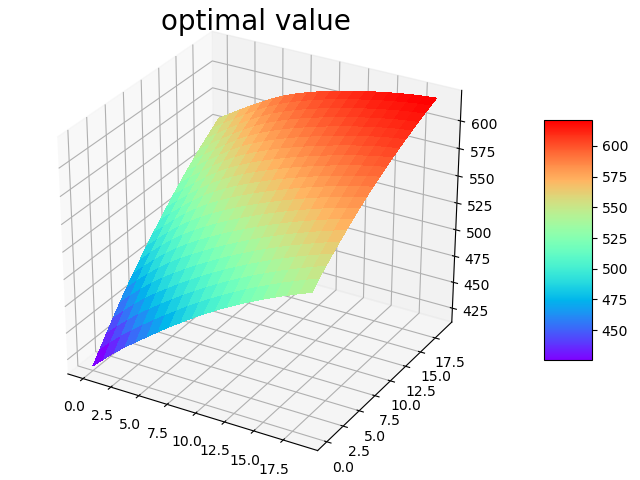
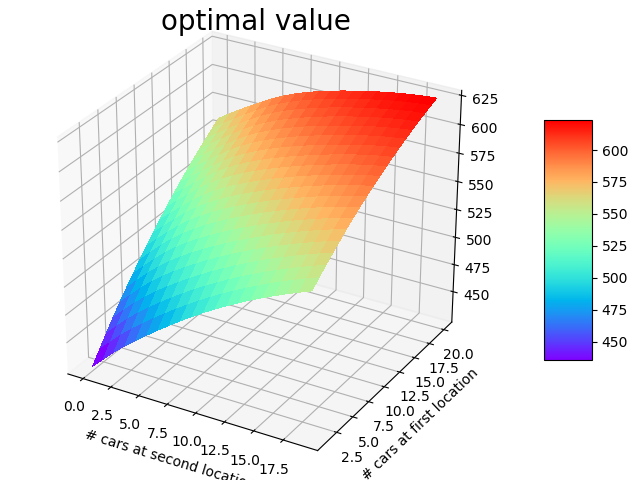
about car rental, not finished

diff --git a/resources/car_rental.py b/resources/car_rental.py
@@ -194,14 +194,16 @@ def plot_3d_value(value):
 
     # 定义三维数据
     xx = np.arange(0, MAX_CARS, 1)
-    yy = np.arange(0, MAX_CARS, 1)
+    yy = np.arange(MAX_CARS, 0, -1)
     X, Y = np.meshgrid(xx, yy)
     # python在这里表现的很智能！
     Z = value[X, Y]
 
     surf = ax3.plot_surface(X, Y, Z, cmap='rainbow', linewidth=0, antialiased=False)
     fig_3d.colorbar(surf, shrink=0.5, aspect=5)
-    ax3.set_title("optimal value", fontsize=20)
+    ax3.set_title('optimal value', fontsize=20)
+    ax3.set_xlabel('# cars at second location', fontsize=10)
+    ax3.set_ylabel('# cars at first location', fontsize=10)
     plt.savefig('../images/rl/dp/figure_4_2_3d_value.png')
 
 

diff --git a/_posts/2019-08-24-dp-car-rental-solution.md b/_posts/2019-08-24-dp-car-rental-solution.md
@@ -227,7 +227,7 @@ if __name__ == '__main__':
 
 可以看出，当两个场地的车辆数量落在中间的区域时，需要调度的车辆数量为0，显然这是一个动态的过程，需要两个场地的协调和配合，也就是说需要在两个场地之间平衡车辆的数量。
 
-啥是最优？依然是个谜:-(。最后一张图如何解读？
+啥是最优？依然是个谜:-(。
 
 ![figure 4-2](https://raw.githubusercontent.com/subaochen/subaochen.github.io/master/images/rl/dp/figure_4_2.png)
 
